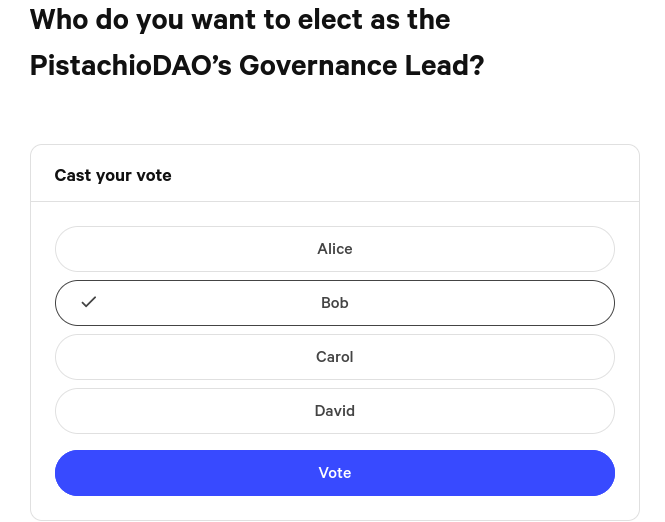
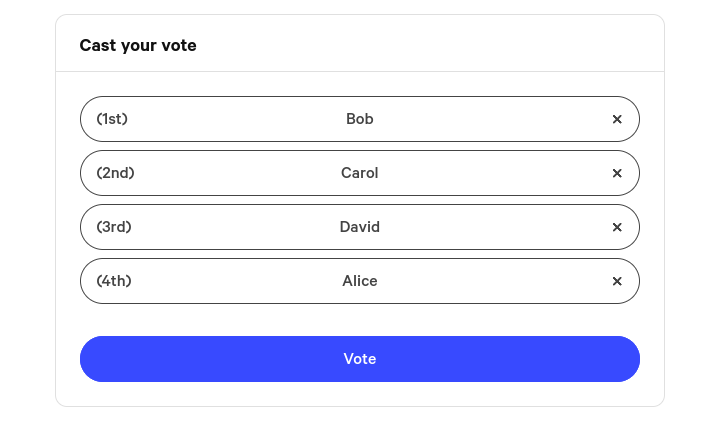
GitBook: [#340] Custom skin edits

diff --git a/spaces/add-skin.md b/spaces/add-skin.md
@@ -1,31 +1,49 @@
 ---
-description: Skins are optional.
+description: >-
+  Learn what a custom skin is and how to use one for your space with a custom
+  domain.
 ---
 
 # Add a skin
 
-### What is a skin?
+## What is a skin?
 
-A skin allows you to define a color scheme for your space using a custom domain. It won't effect your space on Snapshot.org\
-\
-Prerequisite: [Add a custom domain](add-custom-domain.md)
+A skin is a custom color scheme which you can use for your space if it has a custom domain set up. The customization will be visible only on the custom domain and will not affect the color scheme of your space on https://snapshot.org.
 
-### Create a pull request
+{% hint style="info" %}
+If you haven't setup a custom domain yet, head to [add-custom-domain.md](add-custom-domain.md "mention") to learn how you can do it.&#x20;
+{% endhint %}
 
-To create your own skin you need to do a pull request on the following repository:
+## Add a skin to your space
+
+Head to your space settings on Snapshot and find the `Custom domain` section.&#x20;
+
+Select a skin by scrolling through the list of available choices or by typing the name you are looking for. If none of them work for you, you can create a custom skin following the section below: [#create-a-custom-skin](add-skin.md#create-a-custom-skin "mention")&#x20;
+
+Don't forget that the skin will **only be applied to the custom domain URL!**
+
+![Snapshot skin selector.](../.gitbook/assets/capture-de-cran-2020-12-30-a-09.33.58.png)
+
+That's it! You should be able to see the custom color scheme for your space on its custom domain  :tada:
+
+## Create a custom skin
+
+### 1. Fork the snapshot-spaces repository
+
+Create a fork of the snapshot-spaces repository:
 
 {% embed url="https://github.com/snapshot-labs/snapshot-spaces" %}
 
-#### Follow the Snapshot skins directory tree
+### 2. Add the styling for your space
+
+Create a new file in the `skins` directory following the `my-space.scss` naming convention:
 
 ```bash
 └── skins
     └── my-space.scss
 ```
 
-### Add your skin
-
-To add your skin you will need to create a "my-space.scss" file in the `skins` directory.
+Add your custom `scss` to the newly created file. The class name `.my-space` should match the filename you created. Make sure that you **edit only the values** (i.e. `#384aff` on the right-hand side and **do not change the properties** (i.e. `--primary-color)`.&#x20;
 
 ```css
 .my-space {
@@ -40,16 +58,28 @@ To add your skin you will need to create a "my-space.scss" file in the `skins` d
 }
 ```
 
-{% hint style="danger" %}
-Change the file name **my-space.scss** and css selector **.my-space** with your space name.
-{% endhint %}
-
-Then you will also need to list your skin in this file: [https://github.com/snapshot-labs/snapshot-spaces/blob/master/skins/index.js](https://github.com/snapshot-labs/snapshot-spaces/blob/master/skins/index.js)
-
-Select then your skin in the Skin field in your space settings.
-
-![Snapshot skin selector.](../.gitbook/assets/capture-de-cran-2020-12-30-a-09.33.58.png)
-
 {% hint style="info" %}
-After committing your PR, you will have to wait for the merge and the deployment of your PR to be able to select your skin available. This process can take up to a couple of days.
+Don't forget to change the file name **my-space.scss** and css selector **.my-space** to your space name.
 {% endhint %}
+
+You can have a look at a custom skin example by following [this link](https://github.com/snapshot-labs/snapshot-spaces/blob/master/skins/uniswap.scss).
+
+### 3. Import the scss file&#x20;
+
+Add the import of your newly created `scss` file to the [skins/index.js](https://github.com/snapshot-labs/snapshot-spaces/blob/master/skins/index.js) file in the following format:
+
+```css
+import my-space from "./my-space.scss";
+```
+
+### 4. Create a pull request
+
+Create a Pull Request with the above changes on the original [snapshot-spaces](https://github.com/snapshot-labs/snapshot-spaces/) repo.
+
+The review can take the team up to 72 hours, so please be patient :pray:
+
+After the PR has been merged, you will need to wait for the release of a new version of [Snapshot](https://github.com/snapshot-labs/snapshot) which can take a couple of days. Once it's deployed you can move on to the next step.
+
+### 5. Update your space settings
+
+Follow the steps from [#add-a-skin-to-your-space](add-skin.md#add-a-skin-to-your-space "mention") to use your own custom skin.

diff --git a/proposals/voting-types.md b/proposals/voting-types.md
@@ -38,7 +38,7 @@ Ideal for choosing one option from many.\
 
 👉 [**Try it yourself!**](https://snapshot.org/#/pistachiodao.eth/proposal/0x02c3fcd64e86157d07c88e5a715ac08f57655917f8bfd5be30a99092136511ec)****
 
-<figure><img src="../.gitbook/assets/image (4).png" alt=""><figcaption></figcaption></figure>
+<figure><img src="../.gitbook/assets/image (2).png" alt=""><figcaption></figcaption></figure>
 
 ### Weighted voting
 
@@ -62,7 +62,7 @@ Each user can select (_approve_) any number of choices, each selected choice wil
 
 :point\_right: [**Try it yourself!**](https://snapshot.org/#/pistachiodao.eth/proposal/0x08c3bd2960700525770a1d634f8599ba967e55fcc05b6c1649d984d88253769d)****
 
-<figure><img src="../.gitbook/assets/image (7).png" alt=""><figcaption></figcaption></figure>
+<figure><img src="../.gitbook/assets/image (15).png" alt=""><figcaption></figcaption></figure>
 
 ### Quadratic voting
 
@@ -75,7 +75,7 @@ For more information on quadratic voting refer to [this article](https://en.wiki
 
 :point\_right: [**Try it yourself!**](https://snapshot.org/#/pistachiodao.eth/proposal/0x21f64875abbca71762a980efae43ab62b546d54f19a208d0e61a5d7cee571a35)****
 
-<figure><img src="../.gitbook/assets/image (3).png" alt=""><figcaption></figcaption></figure>
+<figure><img src="../.gitbook/assets/image (7).png" alt=""><figcaption></figcaption></figure>
 
 ### Ranked choice voting (Instant Runoff Voting)
 
@@ -98,7 +98,7 @@ Some options will show up as if they had **not received any votes** because they
 
 :point\_right: [**Try it yourself!**](https://snapshot.org/#/pistachiodao.eth/proposal/0x5003da0f03e718b461e53fe10a998b60172e2e108472153282fcef781c300f23)****
 
-<figure><img src="../.gitbook/assets/image (11).png" alt=""><figcaption></figcaption></figure>
+<figure><img src="../.gitbook/assets/image.png" alt=""><figcaption></figcaption></figure>
 
 ### Basic voting
 
@@ -111,4 +111,4 @@ The votes cast on the `Abstain` choice are counted in calculating if the necessa
 
 :point\_right: [**Try it yourself!**](https://snapshot.org/#/pistachiodao.eth/proposal/0x38c654c0f81b63ea1839ec3b221fad6ecba474aa0c4e8b4e8bc957f70100e753)****
 
-<figure><img src="../.gitbook/assets/image (9).png" alt=""><figcaption></figcaption></figure>
+<figure><img src="../.gitbook/assets/image (6).png" alt=""><figcaption></figcaption></figure>

diff --git a/networks.md b/networks.md
@@ -62,7 +62,7 @@ a. Click the first network from the left sidebar and click `Edit networks.json` 
 
 b. Add the JSON object with your network details (be careful with typos!) and click `Apply`. **Do not refresh the page!**
 
-<figure><img src=".gitbook/assets/image (3) (1).png" alt=""><figcaption></figcaption></figure>
+<figure><img src=".gitbook/assets/image (3).png" alt=""><figcaption></figcaption></figure>
 
 c. Search for your network in the left sidebar. You can look for the `chainId` or the network's `name`
 
@@ -72,7 +72,7 @@ d. Scroll up to the top of the page and check if:
 * the last block is fetched correctly (click on it to see its timestamp)
 * there are no errors
 
-<figure><img src=".gitbook/assets/image.png" alt=""><figcaption></figcaption></figure>
+<figure><img src=".gitbook/assets/image (8).png" alt=""><figcaption></figcaption></figure>
 
 ### 4. Create a Pull Request
 

diff --git a/spaces/space-roles.md b/spaces/space-roles.md
@@ -42,7 +42,7 @@ In order to update the admins and authors lists head to the space settings on Sn
 
 You can add up to 100 addresses in each field. Make sure each address is written in a **separate line** as suggested in the example below.
 
-<figure><img src="../.gitbook/assets/image (2).png" alt=""><figcaption></figcaption></figure>
+<figure><img src="../.gitbook/assets/image (2) (1).png" alt=""><figcaption></figcaption></figure>
 
 {% hint style="warning" %}
 Do not list all addresses in one line separated by a delimiter like a comma, semicolon or a dot.

diff --git a/spaces/sub-spaces.md b/spaces/sub-spaces.md
@@ -10,7 +10,7 @@ Organizations can create multiple spaces and link them together. This is useful 
 
 You can define a main space, or multiple subspaces, in the Sub-spaces section of the space settings.
 
-![](<../.gitbook/assets/image (1) (2).png>)
+![](<../.gitbook/assets/image (1) (5).png>)
 
 Do this for both your main space and all subspaces to link them to each other. If you have setup everything correctly they will be displayed on the space page.
 
